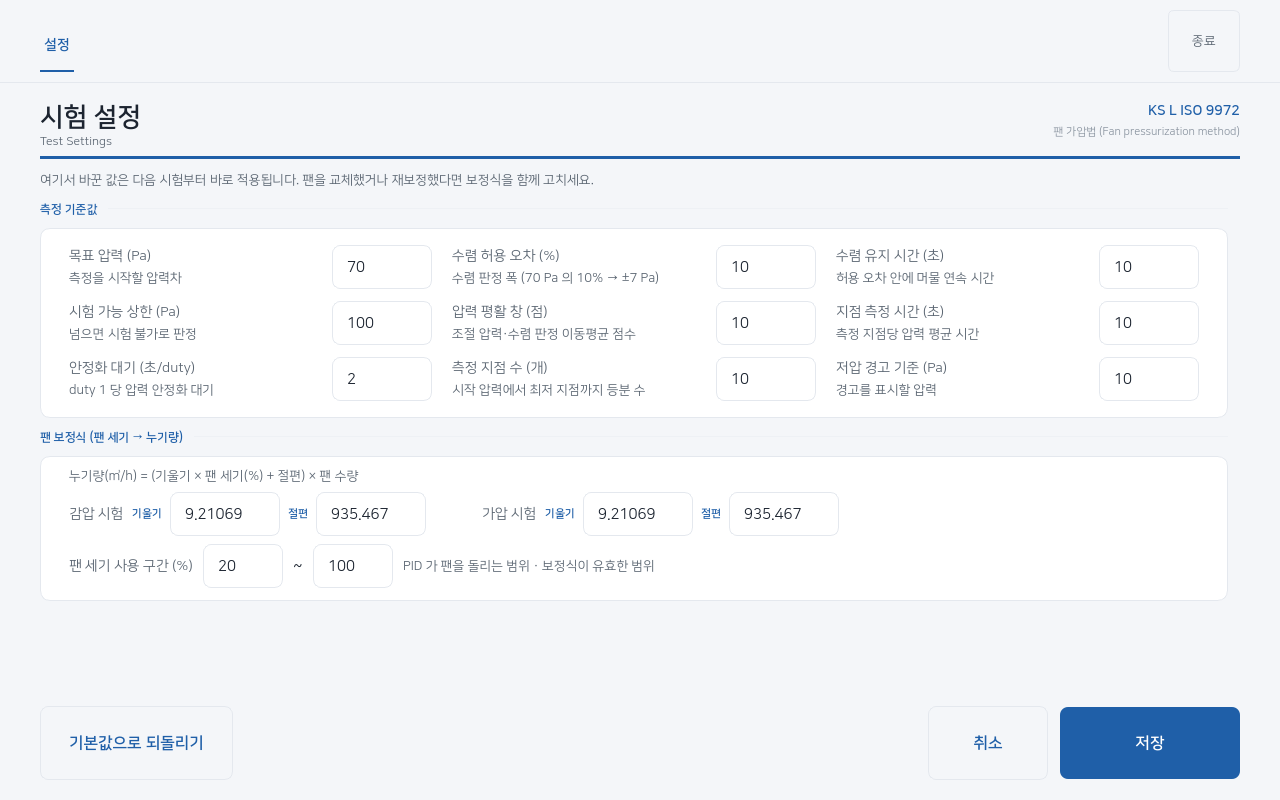
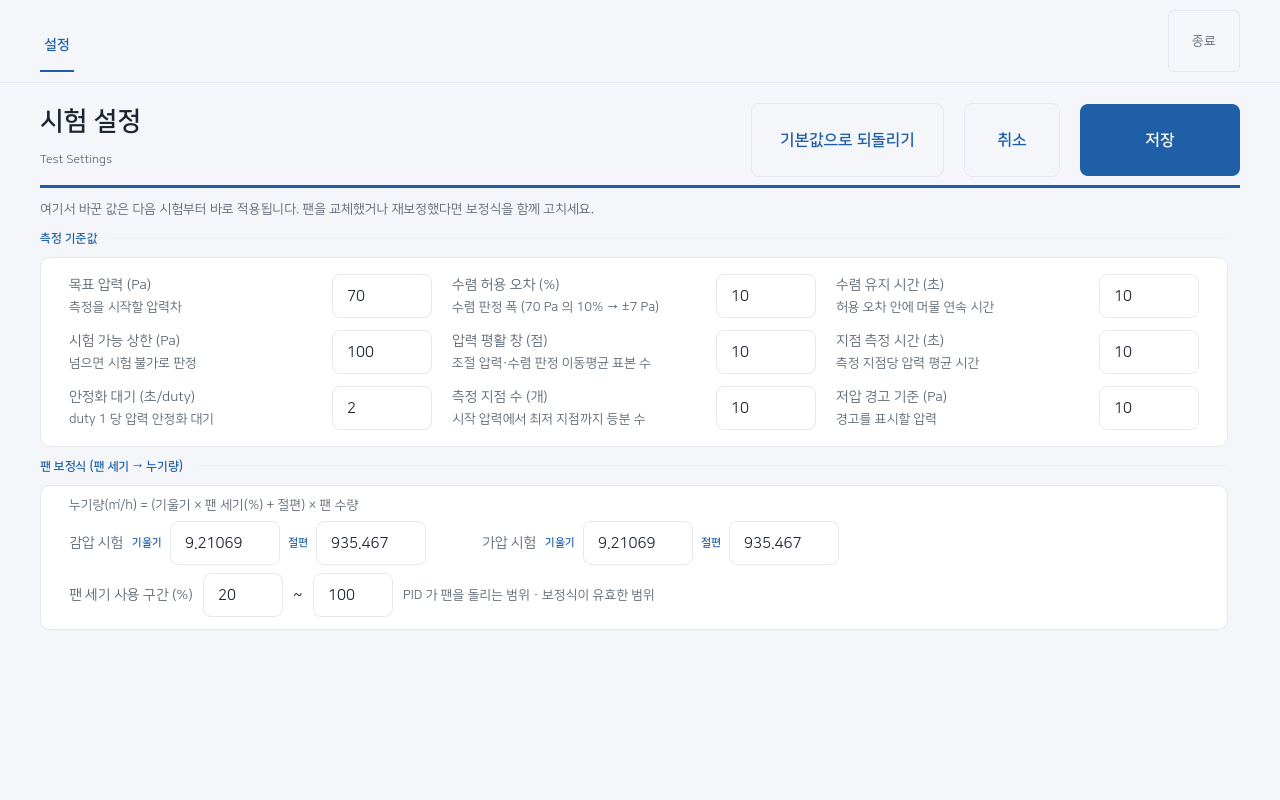
문구·디자인 다듬기 — 리뷰 지적 반영
디자인:
- 숫자 칸 키패드를 0~9·점·지우기 한 줄로(아주 얇게). 문자가 없어 텐키가
  불필요하고, 확정은 헤더 버튼이 맡으므로 완료 키도 뺀다. 폼이 키보드 위에
  다 보인다.
- 설정 페이지 버튼(기본값·취소·저장)을 헤더 오른쪽으로. 하단에 두면 화면
  키보드가 뜰 때 폼을 좁게 눌렀다 (조건 입력과 동일 처리, show_standard=False).

문구:
- "성적서 PDF 생성 실패했습니다" → "성적서 PDF 를 만들지 못했습니다" (조사)
- "성적서 화면 출력 실패했습니다" → "성적서를 화면에 표시하지 못했습니다"
- 설정 범위 오류 '{이름} 은' → '{이름} 값은' (모음 종결 항목명 비문 방지)
- 설정 설명 "이동평균 점수" → "이동평균 표본 수" (점수 오독 방지)
- 계산 요약 "누기 계수" → "보정 누기 계수 C₀" (용어 통일)
- "USB로 복사" → "USB 로 복사" (라틴 약어 공백 규칙)
- 준비 화면 y축 "압력 (Pa)" → "압력차 Δp (Pa)" (타 화면 용어 통일)
- 성적서 ② 캡션 "② ① 로" → "② ①번으로" (원문자 연달아 난독 완화)

06-settings.png 갱신. 성적서 PDF 출력은 불변(전부 화면·키보드 문구).

Claude-Session: https://claude.ai/code/session_01MsHdfJVN6r14YMWuHNiSUb

diff --git a/bdt/pages/settings_page.py b/bdt/pages/settings_page.py
@@ -48,7 +48,24 @@ class SettingsPage(QWidget):
         root = QVBoxLayout(self)
         root.setContentsMargins(40, 20, 40, 20)
         root.setSpacing(14)
-        root.addWidget(PageHeader("시험 설정", "Test Settings"))
+
+        # 동작 버튼은 헤더 오른쪽에 둔다 — 하단에 두면 화면 키보드가 뜰 때
+        # 버튼줄이 폼을 좁게 눌러 편집 중 값·버튼이 답답하다 (조건 입력과 동일).
+        reset_button = QPushButton("기본값으로 되돌리기")
+        reset_button.setObjectName("Secondary")
+        reset_button.clicked.connect(self._reset_defaults)
+        cancel_button = QPushButton("취소")
+        cancel_button.setObjectName("Secondary")
+        cancel_button.setMinimumWidth(96)
+        cancel_button.clicked.connect(self.closed.emit)
+        save_button = QPushButton("저장")
+        save_button.setMinimumWidth(160)
+        save_button.clicked.connect(self._save)
+        # 규격 표기는 두 줄이라 버튼과 상하 정렬이 어긋나 뺀다 (성적서에 실림).
+        root.addWidget(PageHeader("시험 설정", "Test Settings",
+                                  actions=[reset_button, cancel_button,
+                                           save_button],
+                                  show_standard=False))
 
         hint = QLabel("여기서 바꾼 값은 다음 시험부터 바로 적용됩니다. "
                       "팬을 교체했거나 재보정했다면 보정식을 함께 고치세요.")
@@ -73,26 +90,6 @@ class SettingsPage(QWidget):
         scroll.setFrameShape(QFrame.Shape.NoFrame)
         scroll.setWidget(body)
         root.addWidget(scroll, 1)
-
-        # ── 버튼 줄 ────────────────────────────────────────────
-        reset_button = QPushButton("기본값으로 되돌리기")
-        reset_button.setObjectName("Secondary")
-        reset_button.clicked.connect(self._reset_defaults)
-        cancel_button = QPushButton("취소")
-        cancel_button.setObjectName("Secondary")
-        cancel_button.setMinimumWidth(120)
-        cancel_button.clicked.connect(self.closed.emit)
-        save_button = QPushButton("저장")
-        save_button.setMinimumWidth(180)
-        save_button.clicked.connect(self._save)
-
-        buttons = QHBoxLayout()
-        buttons.setSpacing(12)
-        buttons.addWidget(reset_button)
-        buttons.addStretch(1)
-        buttons.addWidget(cancel_button)
-        buttons.addWidget(save_button)
-        root.addLayout(buttons)
 
         self._fill(settings.load(), settings.load_fan_coefficients())
 
@@ -248,7 +245,7 @@ class SettingsPage(QWidget):
             lo, hi = settings.LIMITS[key]
             if not (lo <= value <= hi):
                 alert(self, "입력 오류",
-                      f"‘{name}’ 은 {self._fmt(lo)} ~ {self._fmt(hi)} {unit} "
+                      f"‘{name}’ 값은 {self._fmt(lo)} ~ {self._fmt(hi)} {unit} "
                       f"범위여야 합니다.\n입력한 값: {self._fmt(value)}")
                 self.fields[key].setFocus()
                 self.fields[key].selectAll()

diff --git a/bdt/keyboard.py b/bdt/keyboard.py
@@ -180,7 +180,6 @@ _EN_ROWS = [
     list("asdfghjkl"),
     list("zxcvbnm"),
 ]
-_NUM_ROWS = [list("789"), list("456"), list("123"), list("0.")]
 # 문자·기호 레이어 오른쪽에 붙는 텐키 (넓은 가로폭 활용)
 _TENKEY_ROWS = [list("789"), list("456"), list("123"), ['0', '.', '⌫']]
 # 텍스트 칸에서 한/영 옆 버튼으로 여는 숫자·특수문자 레이어
@@ -333,17 +332,14 @@ class OnScreenKeyboard(QWidget):
             self._build_text()
 
     def _build_numeric(self):
-        for row in _NUM_ROWS:
-            r = QHBoxLayout()
-            r.setSpacing(6)
-            for ch in row:
-                r.addWidget(self._btn(ch, lambda _=None, c=ch: self._key(c)))
-            self._grid_host.addLayout(r)
-        tail = QHBoxLayout()
-        tail.setSpacing(6)
-        tail.addWidget(self._btn("⌫", lambda: self._backspace(), "Wide"))
-        tail.addWidget(self._btn("완료", lambda: self.done.emit(), "Done"))
-        self._grid_host.addLayout(tail)
+        # 숫자 칸은 0~9 · 점 · 지우기를 한 줄로만 둔다 — 문자가 없으니 아주
+        # 얇게. 확정/닫기는 헤더의 동작 버튼(저장 등)이 맡으므로 완료 키는 없다.
+        r = QHBoxLayout()
+        r.setSpacing(6)
+        for ch in "0123456789.":
+            r.addWidget(self._btn(ch, lambda _=None, c=ch: self._key(c)))
+        r.addWidget(self._btn("⌫", lambda: self._backspace()))
+        self._grid_host.addLayout(r)
 
     def _tenkey_column(self):
         """오른쪽에 붙는 텐키. 넓은 가로폭을 채우고 숫자 입력을 빠르게 한다."""

diff --git a/bdt/pages/report_view.py b/bdt/pages/report_view.py
@@ -111,7 +111,7 @@ class ReportPage(QWidget):
 
         # USB 복사 — USB 저장소가 꽂혀 있을 때만 뜬다. 성적서 화면이 떠 있는
         # 동안 꽂아도 나타나게 주기적으로 확인한다.
-        self.usb_button = QPushButton("USB로 복사")
+        self.usb_button = QPushButton("USB 로 복사")
         self.usb_button.setObjectName("Secondary")
         self.usb_button.setMinimumWidth(150)
         self.usb_button.clicked.connect(self._copy_to_usb)
@@ -211,7 +211,7 @@ class ReportPage(QWidget):
         self._wifi_block, self.wifi_cap, self.wifi_qr, self.wifi_sub = \
             self._qr_step("① 폰 카메라로 이 QR 스캔")
         self._url_block, self.url_cap, self.url_qr, self.url_sub = \
-            self._qr_step("② ① 로 목록이 안 열릴 때만")
+            self._qr_step("② ①번으로 목록이 안 열릴 때만")
 
         # 위·아래 사용법 — 각 QR 캡션은 '무엇을 스캔하나'만 말한다. 이 두 줄은
         # 전체 흐름(폰 카메라로 시작 → 목록에서 받기로 끝)을 감싸 안내한다.
@@ -289,7 +289,7 @@ class ReportPage(QWidget):
         #   AP 없음: 폰이 '이미 같은 WiFi 에 있어야' 열린다 — 그렇지 않으면
         #            스캔해도 접속이 안 되므로 전제 조건을 분명히 알린다.
         if ap_up:
-            self.url_cap.setText("② ① 로 목록이 안 열릴 때만")
+            self.url_cap.setText("② ①번으로 목록이 안 열릴 때만")
         else:
             # 폰이 어느 망에 붙어야 하는지 실제 SSID 로 알린다
             ssid = web.lan_ssid()

diff --git a/bdt/tasks.py b/bdt/tasks.py
@@ -665,7 +665,7 @@ class BackgroundTask(QThread):
         if not result:
             # return 으로 끝내면 finished 만 나가 완료 화면이 '성적서가 표시
             # 됩니다'로 안내한다 — 파일은 없거나 이전 시험 것인데. 오류로 알린다.
-            raise RuntimeError("성적서 PDF 생성 실패했습니다.")
+            raise RuntimeError("성적서 PDF 를 만들지 못했습니다.")
         self.report("성적서 생성 완료: report.pdf")
         self.archive_report(pdf_path, conditions)
         self.render_report_image(pdf_path)
@@ -727,7 +727,7 @@ class BackgroundTask(QThread):
             os.remove(paths.REPORT_PNG)
         pdftoppm = shutil.which("pdftoppm")
         if not pdftoppm:
-            self.report("성적서 화면 출력 실패했습니다.")
+            self.report("성적서를 화면에 표시하지 못했습니다.")
             return
         # -singlefile: 이름 뒤에 페이지 번호를 붙이지 않는다 (성적서는 1페이지)
         stem = os.path.splitext(paths.REPORT_PNG)[0]
@@ -737,5 +737,5 @@ class BackgroundTask(QThread):
                     check=True, timeout=60,
                     stdout=sub.DEVNULL, stderr=sub.DEVNULL)
         except (sub.SubprocessError, OSError) as exc:
-            self.report("성적서 화면 출력 실패했습니다.")
+            self.report("성적서를 화면에 표시하지 못했습니다.")
 

diff --git a/bdt/pages/live_pressure.py b/bdt/pages/live_pressure.py
@@ -80,7 +80,7 @@ class LivePressureData(QWidget):
 
         # 축 레이블 설정
         self.axis_x.setTitleText("시간 (s)")
-        self.axis_y.setTitleText("압력 (Pa)")
+        self.axis_y.setTitleText("압력차 Δp (Pa)")
         axis_font = QFont()
         axis_font.setPointSize(9)
         title_font = QFont()

diff --git a/bdt/pages/summary.py b/bdt/pages/summary.py
@@ -106,7 +106,7 @@ class CalculationSummary(QWidget):
 
         model = QLabel("Q = C₀ · Δpⁿ")
         model.setObjectName("Formula")
-        model_note = QLabel("측정 지점에 최소제곱법 회귀를 적용해 누기 계수와 기류 지수 n 을 구합니다.")
+        model_note = QLabel("측정 지점에 최소제곱법 회귀를 적용해 보정 누기 계수 C₀ 와 기류 지수 n 을 구합니다.")
         model_note.setObjectName("Hint")
         model_note.setWordWrap(True)
         left_layout.addWidget(model)

diff --git a/bdt/settings.py b/bdt/settings.py
@@ -55,7 +55,7 @@ FIELDS = [
      "수렴 판정 폭 (70 Pa 의 10% → ±7 Pa)"),
     ("hold_seconds", "수렴 유지 시간", "초", "허용 오차 안에 머물 연속 시간"),
     ("max_pressure", "시험 가능 상한", "Pa", "넘으면 시험 불가로 판정"),
-    ("smooth_window", "압력 평활 창", "점", "조절 압력·수렴 판정 이동평균 점수"),
+    ("smooth_window", "압력 평활 창", "점", "조절 압력·수렴 판정 이동평균 표본 수"),
     ("measure_seconds", "지점 측정 시간", "초", "측정 지점당 압력 평균 시간"),
     ("settle_seconds_per_duty", "안정화 대기", "초/duty",
      "duty 1 당 압력 안정화 대기"),